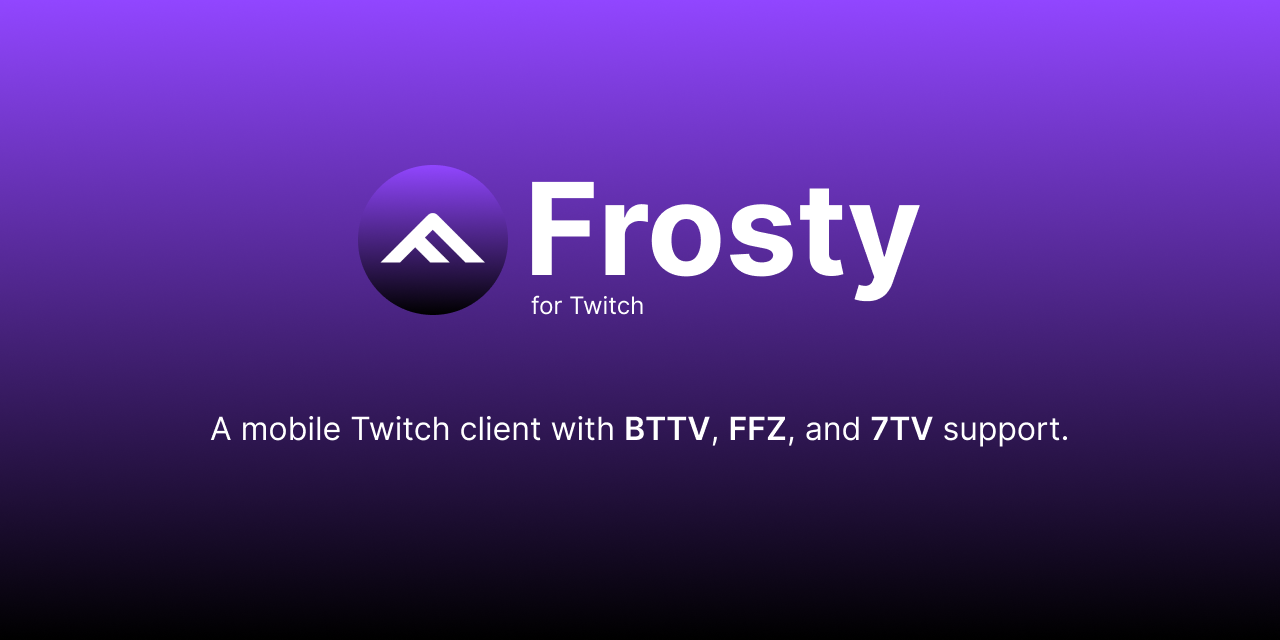
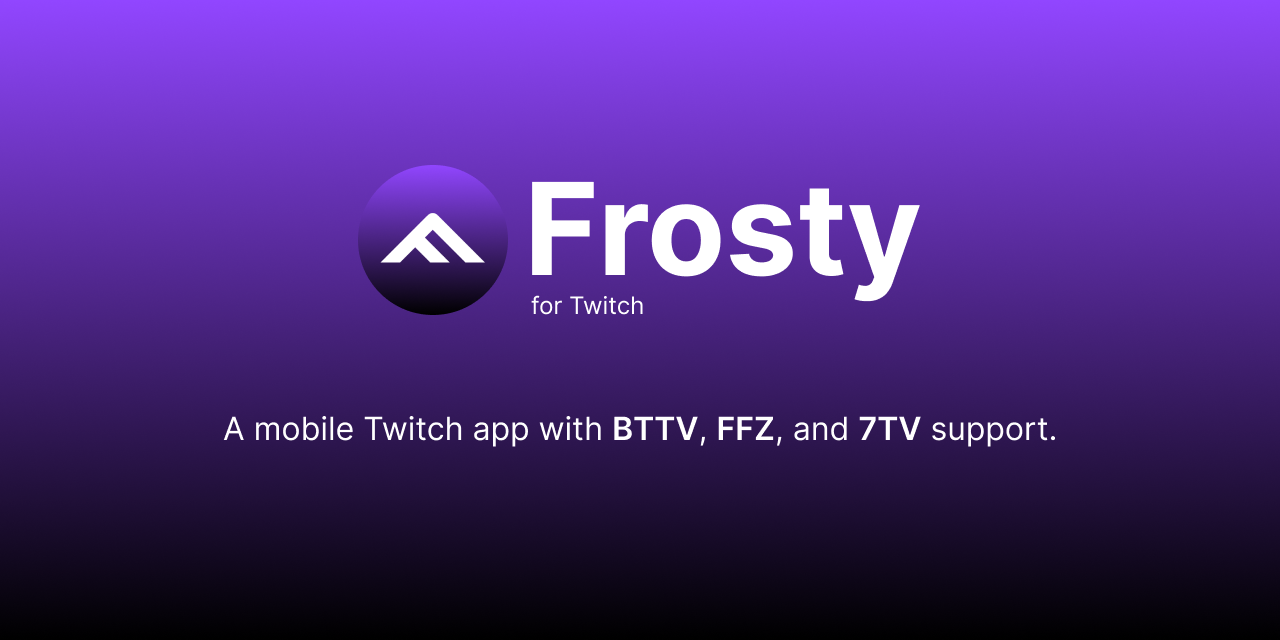
Edit title, descriptions, & ogimage for SEO

Changed region(s): [[0.1562, 0.625, 0.8438, 0.7188]]

diff --git a/src/pages/index.tsx b/src/pages/index.tsx
@@ -36,7 +36,7 @@ const Home = () => {
     'See and filter chatters in a channel',
     'Picture-in-picture mode (iOS only)',
     'Local chat user message history',
-    'Theater and full-screen mode',
+    'Theater and fullscreen mode',
     'Watch live streams with chat',
     'Block and report users',
     'Customizable settings',
@@ -92,7 +92,7 @@ const Home = () => {
   );
 
   return (
-    <Layout description='Free and open-source mobile Twitch client for iOS and Android with BTTV, FFZ, and 7TV support.'>
+    <Layout description='Frosty is a free and open-source mobile Twitch app for iOS and Android built from the ground up. It supports emotes and badges from BetterTTV (BTTV), FrankerFaceZ (FFZ), and 7TV — popular third-party extensions for Twitch used by millions.'>
       <div className='bg-gradient-to-b from-twitch-purple to-neutral-900 pt-32 pb-20 xl:pt-40 xl:pb-28'>
         <div className='m-auto flex max-w-screen-2xl flex-col items-center xl:flex-row-reverse xl:justify-evenly xl:p-8'>
           <div className='m-auto mb-8 flex w-full justify-center gap-4 overflow-hidden xl:hidden'>
@@ -123,7 +123,7 @@ const Home = () => {
 
           <div className='flex flex-col items-center xl:items-start'>
             <h1 className='mb-8 text-center text-2xl font-bold leading-normal sm:text-3xl lg:text-4xl xl:mr-20 xl:whitespace-nowrap xl:text-start xl:text-5xl xl:leading-tight'>
-              Mobile Twitch client.
+              Mobile Twitch app.
               <br />
               Free and open-source.
               <br />
@@ -136,16 +136,16 @@ const Home = () => {
         </div>
       </div>
 
-      <SectionContainer header='Finally, third-party emotes on mobile'>
-        <p className='text-center font-semibold sm:text-xl md:w-4/5 lg:text-2xl xl:text-4xl'>
+      <SectionContainer header=''>
+        <p className='max-w-5xl text-center font-semibold sm:text-xl md:w-4/5 lg:text-2xl xl:text-4xl'>
           Frosty is an app built from the ground up that brings emotes from
-          BetterTTV, FrankerFaceZ, and 7TV — popular third-party extensions for
-          Twitch used by millions — to both iOS and Android.
+          BetterTTV (BTTV), FrankerFaceZ (FFZ), and 7TV — popular third-party
+          extensions for Twitch used by millions — to both iOS and Android.
           <br />
           <br />
           Gone are the days of seeing random and meaningless walls of text in
-          chat. Now you&apos;ll be able to see all your favorite channels&apos;
-          emotes and GIFs in chat!
+          chat. Now you&apos;ll be able to see and chat with all your favorite
+          channels&apos; emotes and GIFs!
         </p>
       </SectionContainer>
 

diff --git a/src/pages/_app.tsx b/src/pages/_app.tsx
@@ -6,7 +6,10 @@ function MyApp({ Component, pageProps }: AppProps) {
   return (
     <>
       <Head>
-        <title>Frosty</title>
+        <title>
+          Frosty for Twitch: Free and open-source Twitch app with BTTV, FFZ, and
+          7TV support
+        </title>
         <meta name='viewport' content='initial-scale=1.0, width=device-width' />
 
         <link
@@ -45,7 +48,7 @@ function MyApp({ Component, pageProps }: AppProps) {
         <meta property='og:title' content='Frosty for Twitch' />
         <meta
           property='og:description'
-          content='A free and open-source mobile Twitch client for iOS and Android.'
+          content='Frosty is a free and open-source mobile Twitch app for iOS and Android built from the ground up. It supports emotes and badges from BetterTTV (BTTV), FrankerFaceZ (FFZ), and 7TV — popular third-party extensions for Twitch used by millions.'
         />
         <meta
           property='og:image'
@@ -58,7 +61,7 @@ function MyApp({ Component, pageProps }: AppProps) {
         <meta name='twitter:title' content='Frosty for Twitch' />
         <meta
           name='twitter:description'
-          content='A free and open-source mobile Twitch client for iOS and Android.'
+          content='Frosty is a free and open-source mobile Twitch app for iOS and Android built from the ground up. It supports emotes and badges from BetterTTV (BTTV), FrankerFaceZ (FFZ), and 7TV — popular third-party extensions for Twitch used by millions.'
         />
         <meta
           name='twitter:image'

diff --git a/src/components/layout.tsx b/src/components/layout.tsx
@@ -91,7 +91,7 @@ const Layout = (props: LayoutProps) => {
           </li>
         </ul>
         <p className='text-center text-sm text-neutral-400'>
-          Designed & Developed by{' '}
+          Designed and developed by{' '}
           <a
             className='hover:underline'
             target='_blank'
